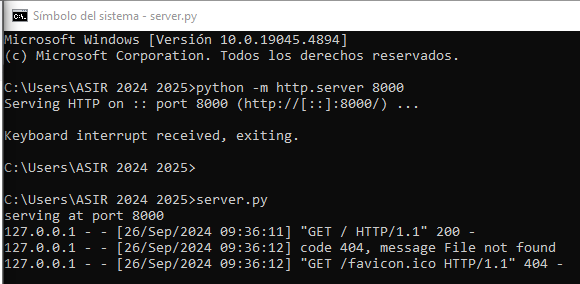
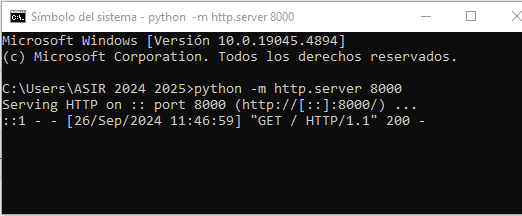
act 0.2 borrador

Changed region(s): [[0.0, 0.0, 1.0, 1.0]]

diff --git a/Actividad0/README.md b/Actividad0/README.md
@@ -8,7 +8,7 @@ Si está hecho de forma correcta podemos ver que se ha creado un servidor y que 
 
 ![img1](/Actividad0/imagenes/act1.png)
 
-Si no hemos activado Apache previo a acceder al servidor, la página web por defecto nos mostrará nuestra carpeta de usuario
+Si no hemos activado Apache previo a acceder al servidor, la página web por defecto nos mostrará nuestra carpeta de usuario.
 
 ![img1](/Actividad0/imagenes/error.png)
 
@@ -16,12 +16,12 @@ Si no hemos activado Apache previo a acceder al servidor, la página web por def
 
 ## Crear un server en python y compartirlo en clase
 
-Vamos a crear un pequecho archivo html y lo vamos a guradar en la carpeta de usuario de nuestro equipo.
+Vamos a crear un pequeño archivo html y lo vamos a guardar en la carpeta de usuario de nuestro equipo.
 
 ![img2](/Actividad0/imagenes/index.png)
 
-Un vex creado el archivo podemos activar Apache y crear un servidor para mostrar la página mediante el comando "server.py".
-Por defecto nos asigna el puerto 8000
+Un vex creado el archivo podemos activar Apache y crear un servidor para mostrar la página mediante el comando "server.py" ó "python -m http.server 8000"
+Por defecto "server.py" nos asigna el puerto 8000.
 
 ![img3](/Actividad0/imagenes/create.png)
 
